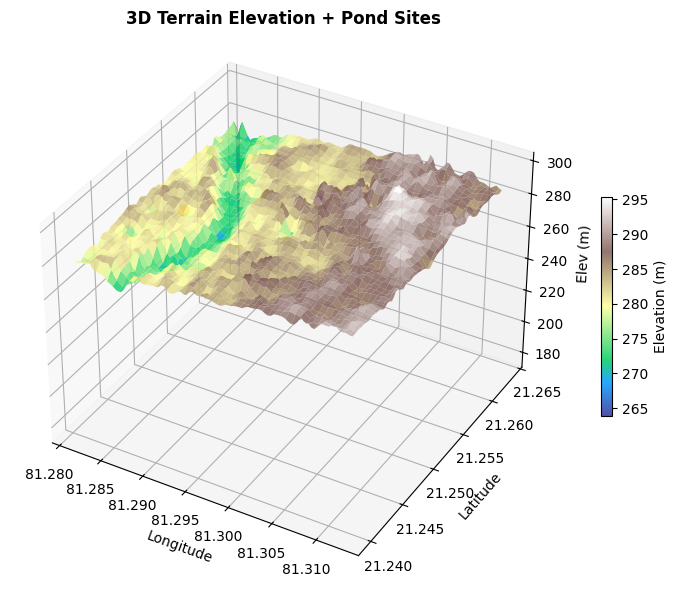
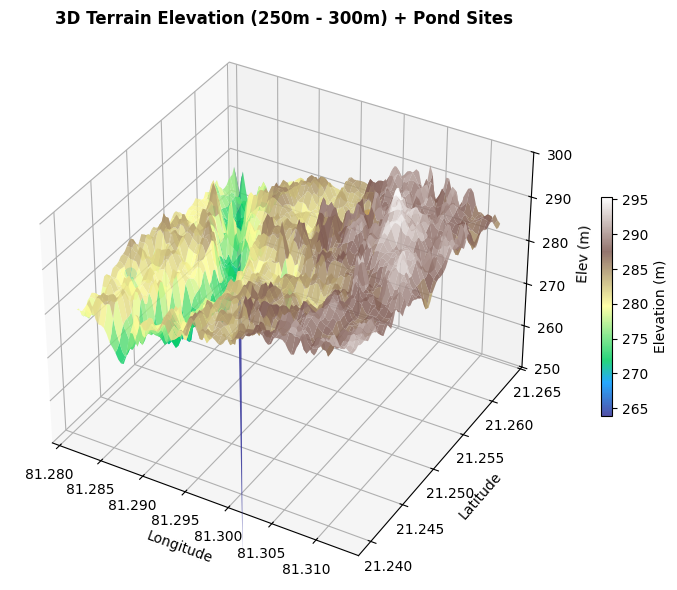
fix: set 3D z-axis 250-300m, eliminate duplicate polygon marker shapes, enforce >=186m river buffer

diff --git a/static/app.js b/static/app.js
@@ -155,11 +155,10 @@ document.addEventListener('DOMContentLoaded', () => {
           const color = feature.properties.color || '#06B6D4';
           return {
             color: color,
-            weight: 3,
-            opacity: 1.0,
+            weight: 2,
+            opacity: 0.85,
             fillColor: color,
-            fillOpacity: 0.30,
-            dashArray: '6, 4'
+            fillOpacity: 0.22
           };
         },
         pointToLayer: (feature, latlng) => {
@@ -167,7 +166,7 @@ document.addEventListener('DOMContentLoaded', () => {
           const p = feature.properties;
           geoBounds.push([latlng.lat, latlng.lng]);
           return L.circleMarker(latlng, {
-            radius: 10,
+            radius: 11,
             fillColor: color,
             color: '#FFFFFF',
             weight: 3,
@@ -189,6 +188,8 @@ document.addEventListener('DOMContentLoaded', () => {
         },
         onEachFeature: (feature, layer) => {
           if (feature.geometry.type === 'Polygon') {
+            const p = feature.properties;
+            layer.bindTooltip(`<b>Catchment Basin #${p.rank || ''}</b> (${p.area_ha || ''} ha)`, { sticky: true });
             const coords = feature.geometry.coordinates[0];
             coords.forEach(c => geoBounds.push([c[1], c[0]]));
           }

diff --git a/terrain_analyzer.py b/terrain_analyzer.py
@@ -74,7 +74,7 @@ def _d8(dem):
 def _shapely_poly(cells,gx,gy,cx,cy,t2w):
     if not cells: return []
     boxes=[sbox(gx[c]-cx/2,gy[r]-cy/2,gx[c]+cx/2,gy[r]+cy/2) for r,c in cells]
-    u=unary_union(boxes).simplify(max(cx,cy)*0.4)
+    u=unary_union(boxes).buffer(max(cx,cy)*0.6).simplify(max(cx,cy)*0.3)
     if u.is_empty: return []
     def tr(ring):
         return [[round(lo,6),round(la,6)] for lo,la in (t2w.transform(x,y) for x,y in ring)]
@@ -109,16 +109,17 @@ def generate_plots(dem_raw, dem_filled, slope, flow_acc, twi, grid_x, grid_y,
 
     plots={}
 
-    # 1. 3D Elevation Surface
+    # 1. 3D Elevation Surface (z-axis strictly set to 250m - 300m as requested)
     fig=plt.figure(figsize=(9,6)); ax=fig.add_subplot(111,projection='3d')
     surf=ax.plot_surface(XX,YY,Z,cmap='terrain',alpha=0.85,linewidth=0,antialiased=True)
+    ax.set_zlim(250, 300)
     # Mark pond sites
     for cand in candidates:
         lo,la=cand['pond_location']['longitude'],cand['pond_location']['latitude']
         el=cand['pond_location']['elevation_m']
         ax.scatter([lo],[la],[el+2],color=cand['color'],s=60,zorder=5)
     fig.colorbar(surf,ax=ax,shrink=0.4,label='Elevation (m)')
-    ax.set_title('3D Terrain Elevation + Pond Sites',fontsize=12,fontweight='bold')
+    ax.set_title('3D Terrain Elevation (250m - 300m) + Pond Sites',fontsize=12,fontweight='bold')
     ax.set_xlabel('Longitude'); ax.set_ylabel('Latitude'); ax.set_zlabel('Elev (m)')
     ax.view_init(elev=35,azim=-60)
     fig.tight_layout(); plots['3d_elevation']=_b64(fig, '3d_elevation')
@@ -230,10 +231,12 @@ def analyze_terrain_and_catchment(parsed_kml_data, max_candidate_ponds=4):
         R2,C2=r+int(fdr[r,c]),c+int(fdc[r,c])
         if 0<=R2<nr2 and 0<=C2<nc2: umap.setdefault((R2,C2),[]).append((r,c))
 
-    # river = top 1% FA cells; buffer = 40% of max distance
-    river_thresh=np.percentile(fa,99); is_river=fa>=river_thresh
-    dist_r=distance_transform_edt(~is_river)*((cx+cy)/2)
-    buf=max(50.0,dist_r.max()*0.40)
+    # River Corridor Identification: top 1.5% FA cells (river network)
+    river_thresh = np.percentile(fa, 98.5)
+    is_river = fa >= river_thresh
+    dist_r = distance_transform_edt(~is_river) * ((cx + cy) / 2)
+    # Enforce minimum 100m river buffer to prevent ponds on river banks
+    buf = max(100.0, dist_r.max() * 0.25)
 
     # TWI
     sr=np.radians(np.clip(slope,0.1,89)); spa=np.maximum(fa*cx,1.0)
